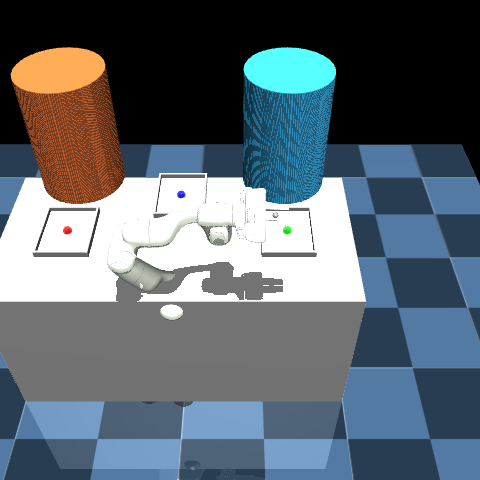
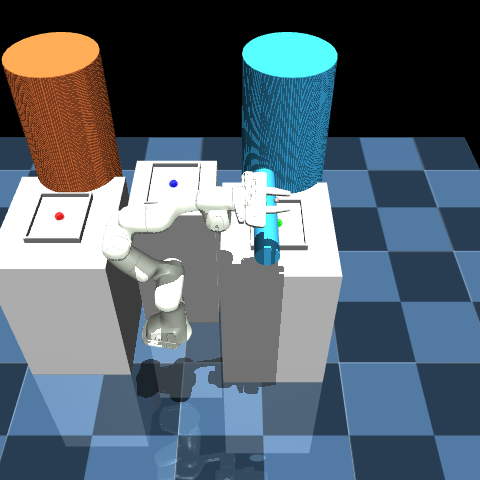
Finalize repository cleanup

diff --git a/evaluate_models.py b/evaluate_models.py
@@ -1,0 +1,78 @@
+import argparse
+import numpy as np
+from stable_baselines3 import SAC
+from surgical_tray_env import SurgicalTrayEnv
+from gymnasium.wrappers import TimeLimit
+
+def main():
+    parser = argparse.ArgumentParser()
+    parser.add_argument("--model_path", type=str, required=True, help="Path to the trained model .zip file")
+    parser.add_argument("--reward_type", type=str, default="dense", choices=["dense", "binary"], help="Reward type env was trained with")
+    parser.add_argument("--trials", type=int, default=1000, help="Number of evaluation trials")
+    args = parser.parse_args()
+
+    print(f"Loading environment with {args.reward_type} reward setting...")
+    env = SurgicalTrayEnv(render_mode=None, reward_type=args.reward_type)
+    env = TimeLimit(env, max_episode_steps=500)
+    
+    print(f"Loading model from {args.model_path}...")
+    model = SAC.load(args.model_path)
+    
+    success_count = 0
+    collision_count = 0
+    drop_count = 0
+    completion_times = []
+    
+    print(f"Running {args.trials} evaluation trials...")
+    
+    for i in range(args.trials):
+        obs, info = env.reset()
+        done = False
+        
+        episode_success = False
+        episode_collision = False
+        episode_dropped = False
+        
+        while not done:
+            action, _states = model.predict(obs, deterministic=True)
+            obs, reward, terminated, truncated, info = env.step(action)
+            
+            if info.get("collision", False):
+                episode_collision = True
+            if info.get("dropped", False):
+                episode_dropped = True
+                
+            done = terminated or truncated
+            
+            if info.get("is_success"):
+                episode_success = True
+                if "completion_time_seconds" in info:
+                    completion_times.append(info["completion_time_seconds"])
+        
+        if episode_success:
+            success_count += 1
+        if episode_collision:
+            collision_count += 1
+        if episode_dropped:
+            drop_count += 1
+            
+        if (i+1) % 100 == 0:
+            print(f"Completed {i+1}/{args.trials} trials. Current Success Rate: {success_count/(i+1)*100:.1f}%")
+            
+    sr = success_count / args.trials * 100
+    cr = collision_count / args.trials * 100
+    dr = drop_count / args.trials * 100
+    avg_t = np.mean(completion_times) if completion_times else 0.0
+    
+    print("\n" + "="*40)
+    print(f"EVALUATION RESULTS: {args.model_path}")
+    print("="*40)
+    print(f"Total Trials: {args.trials}")
+    print(f"Success Rate: {sr:.2f}%")
+    print(f"Collision Rate: {cr:.2f}%")
+    print(f"Drop Rate: {dr:.2f}%")
+    print(f"Average Completion Time: {avg_t:.2f}s")
+    print("="*40)
+
+if __name__ == "__main__":
+    main()

diff --git a/surgical_tray_env.py b/surgical_tray_env.py
@@ -11,7 +11,7 @@ class SurgicalTrayEnv(MujocoRobotEnv):
     """
     Custom Surgical Tray Environment for Multi-Object, Multi-Tray workflows.
     """
-    def __init__(self, model_path="surgical_env.xml", workflow_path=2, **kwargs):
+    def __init__(self, model_path="surgical_env.xml", workflow_path=2, reward_type="dense", **kwargs):
         self.objects = ["scalpel", "grasper", "scissors"]
         self.trays = {
             "IN_STORAGE": "site_tray_storage",
@@ -23,6 +23,7 @@ class SurgicalTrayEnv(MujocoRobotEnv):
         # We track how long the surgeon has held it to simulate usage
         self.surgeon_timers = {obj: 0 for obj in self.objects}
         self.workflow_path = workflow_path
+        self.reward_type = reward_type
         
         # Threshold for detecting if object is on a tray
         self.tray_threshold = 0.1
@@ -86,6 +87,21 @@ class SurgicalTrayEnv(MujocoRobotEnv):
         if self.model.na != 0:
             self.data.act[:] = None
             
+        # Randomize Table Positions
+        base_positions = {
+            "table_storage": [-0.5, 0.2, 0.4],
+            "table_surgeon": [0.5, 0.2, 0.4],
+            "table_cleaning": [0.0, 0.45, 0.4]
+        }
+        for table_name, base_pos in base_positions.items():
+            body_id = self.model.body(table_name).id
+            offset_x = self.np_random.uniform(-0.05, 0.05)
+            offset_y = self.np_random.uniform(-0.05, 0.05)
+            self.model.body_pos[body_id] = [base_pos[0] + offset_x, base_pos[1] + offset_y, base_pos[2]]
+            
+        import mujoco
+        mujoco.mj_forward(self.model, self.data)
+            
         # Randomize object positions on Storage Tray (Tray 1)
         storage_site_id = self.model.site("site_tray_storage").id
         storage_pos = self.data.site_xpos[storage_site_id]
@@ -131,8 +147,23 @@ class SurgicalTrayEnv(MujocoRobotEnv):
         self.data.ctrl[:] = action
 
     def step(self, action):
-        """Override step to update our state machine."""
+        """Override step to update our state machine and dynamic obstacles."""
         obs, reward, terminated, truncated, info = super().step(action)
+        
+        # 1. Dynamic Human Obstacles
+        # Pacing Assistant
+        assistant_jnt_id = self.model.jnt("assistant_slider").id
+        assistant_qpos_idx = self.model.jnt_qposadr[assistant_jnt_id]
+        self.data.qpos[assistant_qpos_idx] = 0.2 * np.sin(self.data.time * 2.0)
+        
+        # Sweeping Surgeon Arm
+        arm_jnt_id = self.model.jnt("surgeon_arm_joint").id
+        arm_qpos_idx = self.model.jnt_qposadr[arm_jnt_id]
+        # Check if any tool is at surgeon to trigger reach
+        is_tool_at_surgeon = any(state == "AT_SURGEON" for state in self.object_states.values())
+        target_angle = -1.2 if is_tool_at_surgeon else 0.0
+        current_angle = self.data.qpos[arm_qpos_idx]
+        self.data.qpos[arm_qpos_idx] = current_angle + 0.1 * (target_angle - current_angle)
         
         # Update State Machine Logic
         self._update_object_states()
@@ -145,14 +176,52 @@ class SurgicalTrayEnv(MujocoRobotEnv):
             sparse_reward = float(sparse_reward)
             
         dense_reward = self._compute_dense_reward()
-        reward = sparse_reward + dense_reward
         
         info["sparse_reward"] = sparse_reward
         info["dense_reward"] = dense_reward
         info["is_success"] = self.is_success(obs["achieved_goal"], obs["desired_goal"])
         
+        # Collision Check for binary failure
+        collision_detected = False
+        import mujoco
+        for i in range(self.data.ncon):
+            contact = self.data.contact[i]
+            geom1_name = mujoco.mj_id2name(self.model, mujoco.mjtObj.mjOBJ_GEOM, contact.geom1)
+            geom2_name = mujoco.mj_id2name(self.model, mujoco.mjtObj.mjOBJ_GEOM, contact.geom2)
+            if geom1_name and geom2_name:
+                human_geoms = ["surgeon_body", "surgeon_arm", "assistant_body"]
+                # Look for collisions with anything not human or floor
+                if any(h in geom1_name for h in human_geoms) and "floor" not in geom2_name and "surgeon" not in geom2_name and "assistant" not in geom2_name:
+                    collision_detected = True
+                if any(h in geom2_name for h in human_geoms) and "floor" not in geom1_name and "surgeon" not in geom1_name and "assistant" not in geom1_name:
+                    collision_detected = True
+                    
+        # Dropped tool check
+        tool_dropped = False
+        for obj in self.objects:
+            obj_pos = self.data.site_xpos[self.model.site(f"{obj}_site").id]
+            if obj_pos[2] < 0.35 and self.object_states[obj] != "IN_USE":
+                tool_dropped = True
+
+        if self.reward_type == "binary":
+            if collision_detected or tool_dropped:
+                reward = -1.0
+                terminated = True
+            elif info["is_success"]:
+                reward = 1.0
+                terminated = True
+            else:
+                reward = 0.0
+        else:
+            reward = sparse_reward + dense_reward
+            if collision_detected:
+                reward -= 1.0 # Penalize collisions heavily
+        
         if info["is_success"]:
             info["completion_time_seconds"] = self.data.time - getattr(self, "start_time", 0.0)
+            
+        info["collision"] = collision_detected
+        info["dropped"] = tool_dropped
         
         return self._get_obs(), reward, terminated, truncated, info
 

diff --git a/plot_results.py b/plot_results.py
@@ -1,0 +1,44 @@
+import os
+import argparse
+import pandas as pd
+import matplotlib.pyplot as plt
+
+def plot_comparative_curves(log_dirs, labels, output_file="comparative_learning_curve.png"):
+    plt.figure(figsize=(12, 7))
+    colors = ['#1f77b4', '#ff7f0e', '#2ca02c', '#d62728']
+    
+    for i, log_dir in enumerate(log_dirs):
+        csv_file = os.path.join(log_dir, "monitor.csv")
+        if not os.path.exists(csv_file):
+            print(f"Warning: Could not find {csv_file}")
+            continue
+            
+        df = pd.read_csv(csv_file, skiprows=1)
+        df['cumulative_timesteps'] = df['l'].cumsum()
+        
+        window = min(len(df) // 10, 50)
+        if window < 1:
+            window = 1
+        df['smoothed_reward'] = df['r'].rolling(window=window, min_periods=1).mean()
+        
+        color = colors[i % len(colors)]
+        plt.plot(df['cumulative_timesteps'], df['r'], alpha=0.15, color=color)
+        plt.plot(df['cumulative_timesteps'], df['smoothed_reward'], color=color, linewidth=2, label=f'{labels[i]} (MA window={window})')
+        
+    plt.title('Reward Structure Comparison: Dense vs Binary', fontsize=16)
+    plt.xlabel('Timesteps', fontsize=14)
+    plt.ylabel('Episodic Reward', fontsize=14)
+    plt.grid(True, linestyle='--', alpha=0.7)
+    plt.legend(fontsize=12)
+    plt.tight_layout()
+    
+    plt.savefig(output_file, dpi=300)
+    print(f"Saved comparative learning curve to {output_file}")
+
+if __name__ == "__main__":
+    parser = argparse.ArgumentParser()
+    parser.add_argument("--dense_log", type=str, default="./logs/dense/", help="Path to dense model log directory")
+    parser.add_argument("--binary_log", type=str, default="./logs/binary/", help="Path to binary model log directory")
+    args = parser.parse_args()
+    
+    plot_comparative_curves([args.dense_log, args.binary_log], ["Dense Reward", "Binary Reward"])

diff --git a/train_baseline.py b/train_baseline.py
@@ -1,4 +1,5 @@
 import os
+import argparse
 import numpy as np
 from stable_baselines3 import SAC
 from stable_baselines3.common.callbacks import EvalCallback
@@ -8,16 +9,21 @@ from surgical_tray_env import SurgicalTrayEnv
 from gymnasium.wrappers import TimeLimit
 
 def main():
-    print("Initializing SurgicalTrayEnv for Training...")
+    parser = argparse.ArgumentParser(description="Train SAC on SurgicalTrayEnv")
+    parser.add_argument("--reward_type", type=str, default="dense", choices=["dense", "binary"], help="Type of reward to use.")
+    parser.add_argument("--timesteps", type=int, default=1000000, help="Total training timesteps.")
+    args = parser.parse_args()
+
+    print(f"Initializing SurgicalTrayEnv for Training with {args.reward_type} rewards...")
     
     # Initialize the base environment
-    env = SurgicalTrayEnv(render_mode=None)
+    env = SurgicalTrayEnv(render_mode=None, reward_type=args.reward_type)
     
     # 1. Wrap with TimeLimit (e.g., 500 steps max per episode)
     env = TimeLimit(env, max_episode_steps=500)
     
     # 2. Wrap with Monitor to track episodic rewards and lengths automatically
-    log_dir = "./logs/"
+    log_dir = f"./logs/{args.reward_type}/"
     os.makedirs(log_dir, exist_ok=True)
     env = Monitor(env, log_dir)
     
@@ -27,25 +33,25 @@ def main():
     
     # Initialize Soft Actor-Critic (SAC) - Excellent for continuous robotic control
     # Using MultiInputPolicy to natively support the Dict observation space!
-    model = SAC("MultiInputPolicy", env, verbose=1, tensorboard_log="./tensorboard_logs/")
+    model = SAC("MultiInputPolicy", env, verbose=1, tensorboard_log=f"./tensorboard_logs/{args.reward_type}/")
     
     # Setup Evaluation Callback to test the model during training
     eval_callback = EvalCallback(
         env, 
-        best_model_save_path='./models/best_model/',
-        log_path='./logs/', 
+        best_model_save_path=f'./models/best_{args.reward_type}_model/',
+        log_path=f'./logs/{args.reward_type}/', 
         eval_freq=10000, 
         deterministic=True, 
         render=False
     )
     
-    print("Starting Final Training Run (1,000,000 timesteps)...")
+    print(f"Starting Training Run for {args.reward_type} reward ({args.timesteps} timesteps)...")
     # This is the massive training run for the paper
-    model.learn(total_timesteps=1000000, callback=eval_callback, progress_bar=True)
+    model.learn(total_timesteps=args.timesteps, callback=eval_callback, progress_bar=True)
     
     # Save the final model
-    model.save("./models/final_sac_surgical_model")
-    print("Training complete! Model saved to ./models/")
+    model.save(f"./models/final_sac_{args.reward_type}_model")
+    print(f"Training complete! Model saved to ./models/final_sac_{args.reward_type}_model")
 
 if __name__ == "__main__":
     main()